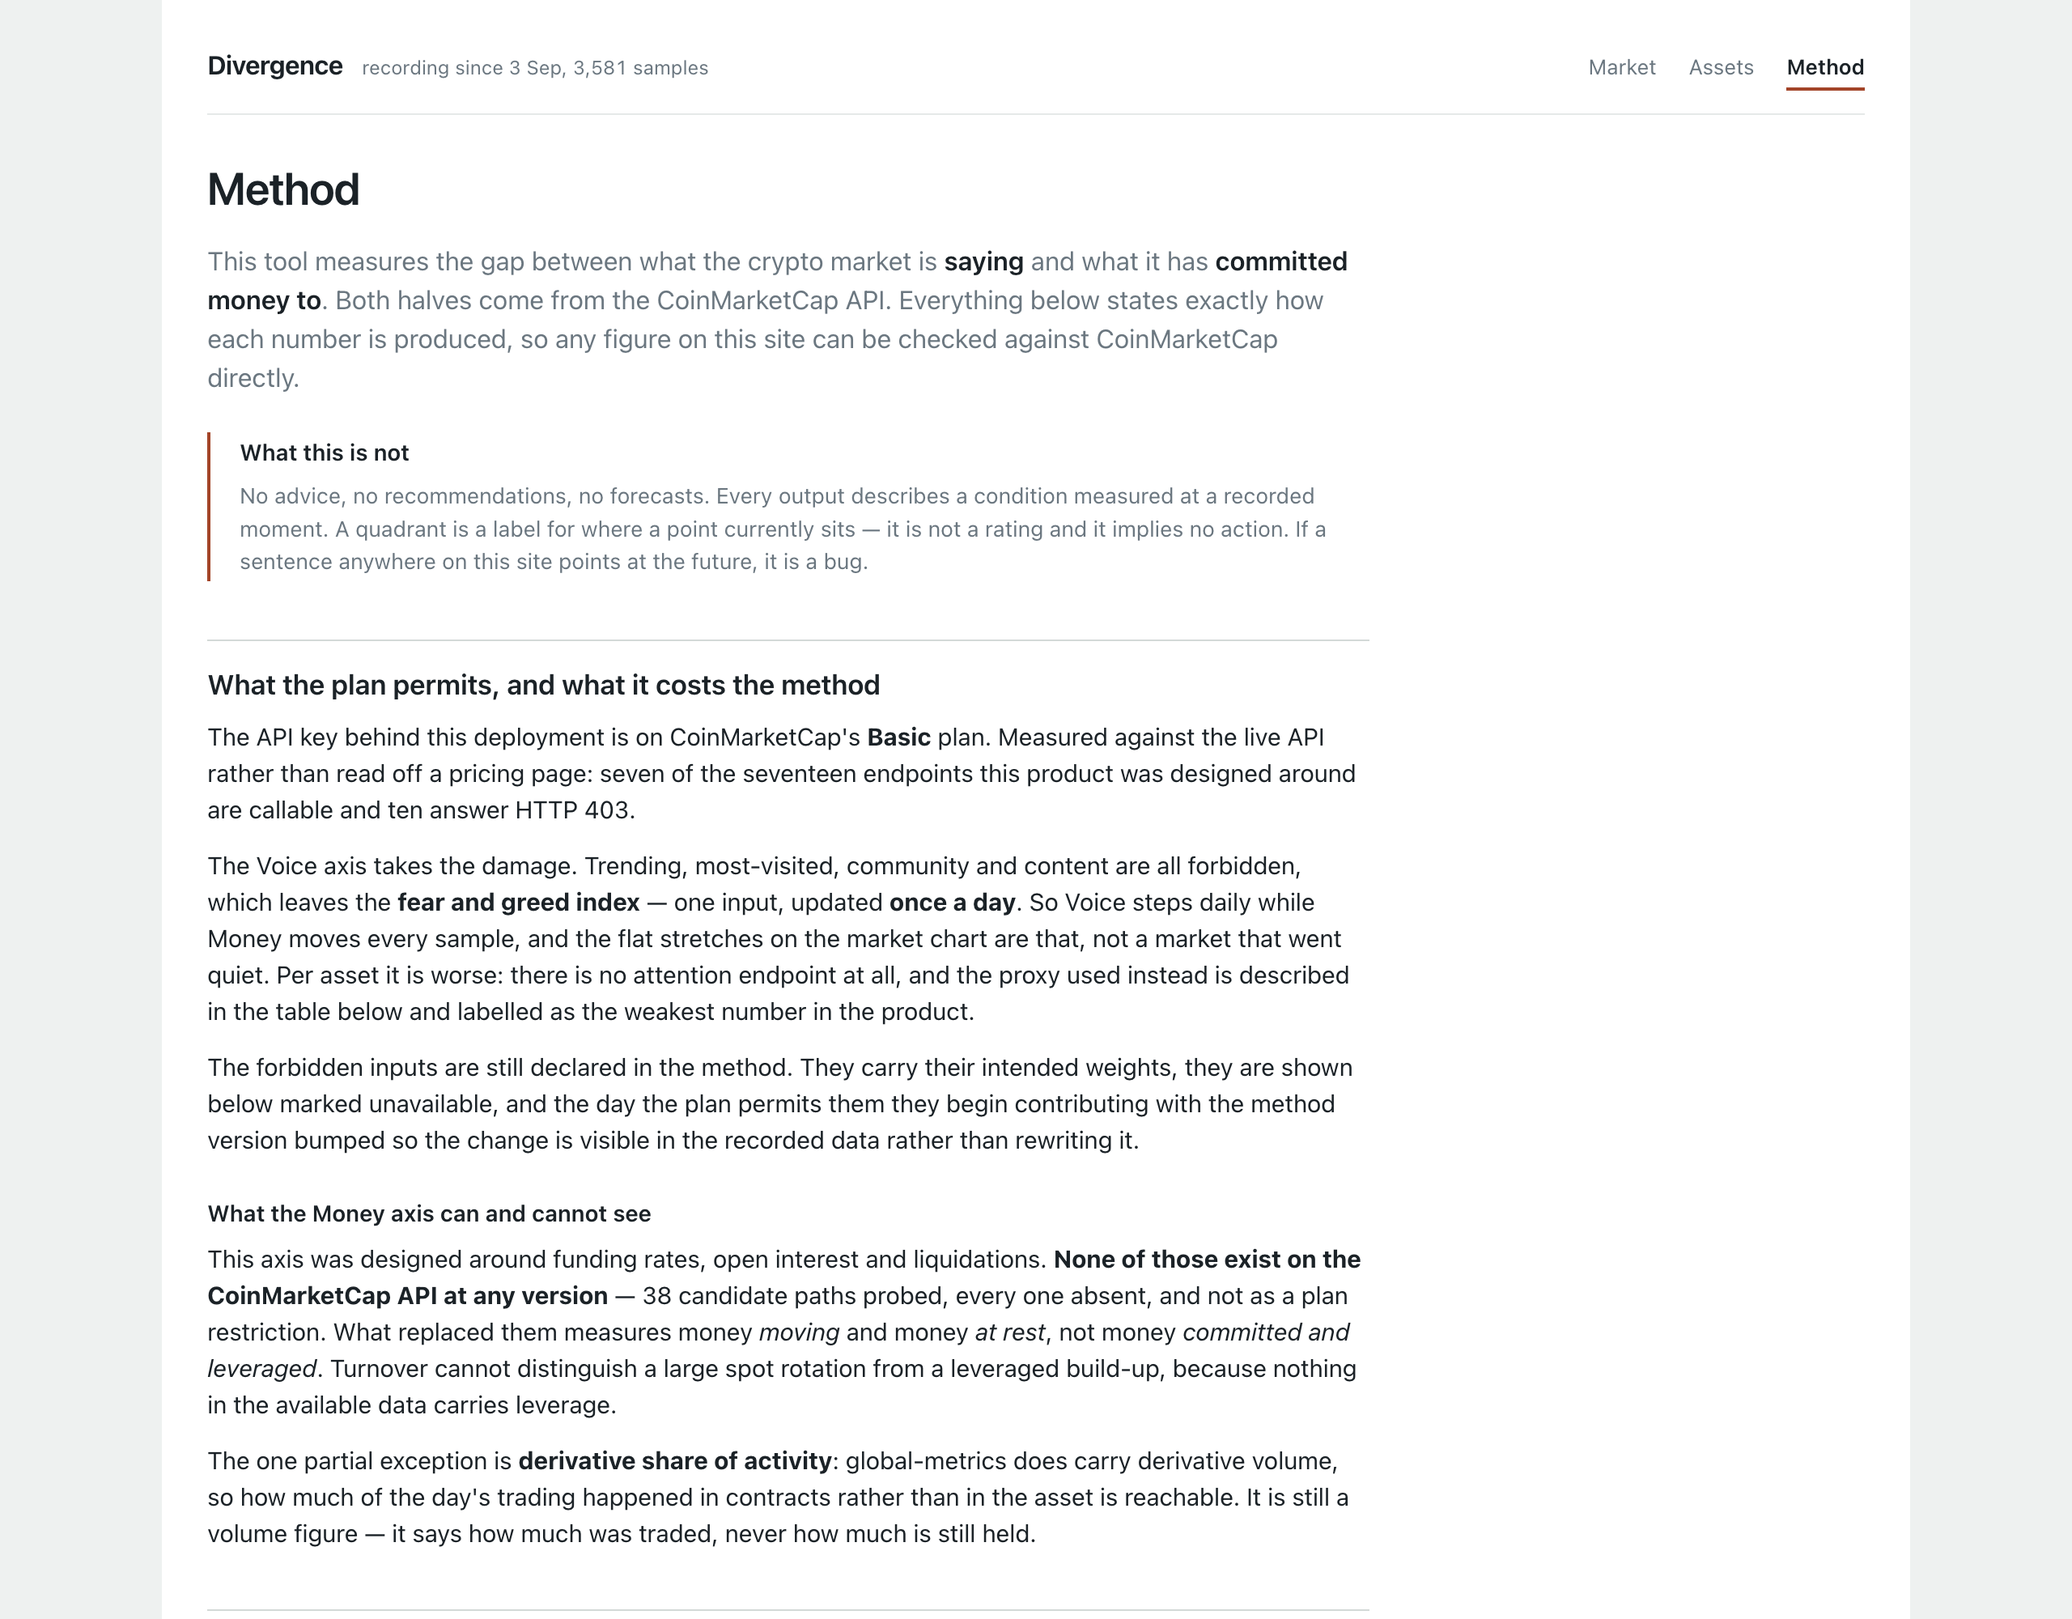
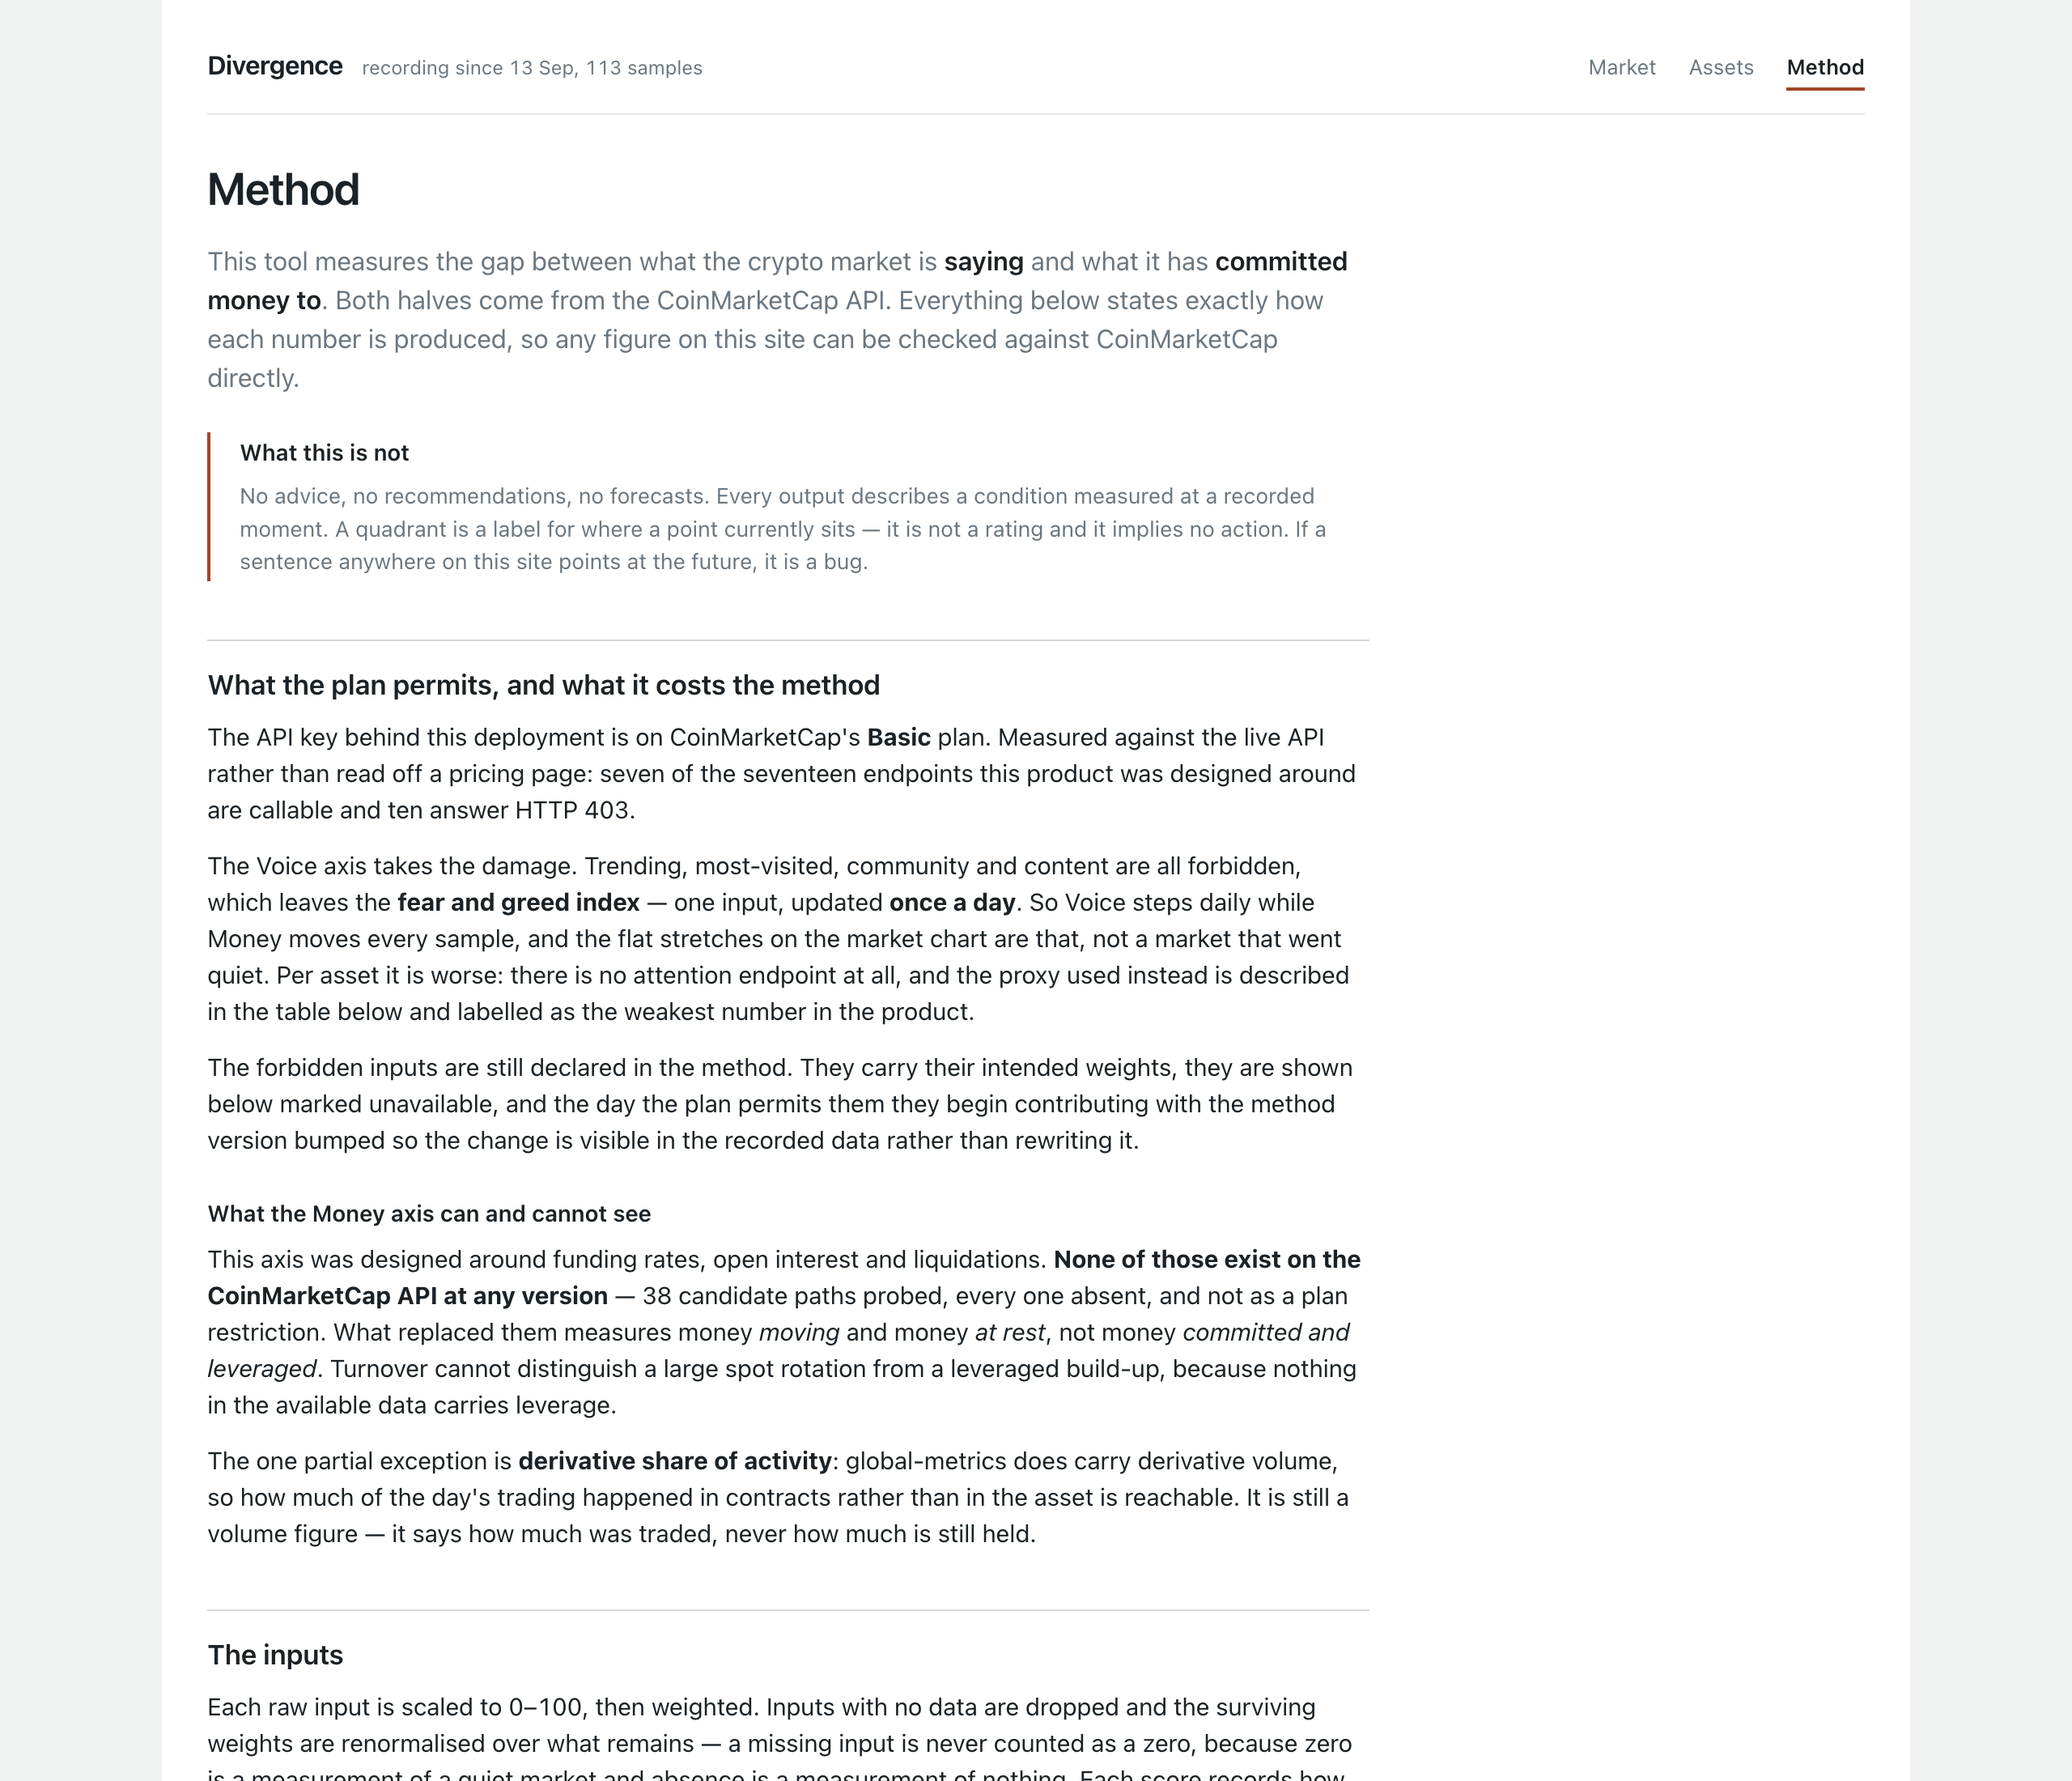
Take the screener and method screenshots from the live deployment
Both are fully populated from production and neither depends on how much history
has accumulated, so they are strictly better taken from the real thing: the
screener shot now shows 86 real assets across both quadrants — SKY, TRUMP, KAS,
VET, AVAX, FET — with the stablecoin exclusion visible and explained on the page.

The market and single-asset charts stay seeded, and the caption now says exactly
why rather than apologising vaguely. The deployment started recording on 13
September and the fear and greed index updates once a day, so every recorded
sample so far sits at Voice 66: the live trail is a straight horizontal line.
Publishing that as the hero image would say less about the product than the
seeded one does, and the trail is the thing the product is for.

Those two get replaced once the Voice axis has stepped a few times and the trail
has real shape — days, not weeks.

diff --git a/README.md b/README.md
@@ -41,9 +41,11 @@ anyone, at any later date.
 Every input in the right-hand column carries the endpoint it came from and the minute it was
 sampled, so any number here can be checked against CoinMarketCap directly.
 
-*Captured from a local run against seeded history, so that the trail and the week-over-week figures
-have something to show. The live deployment records the same way and its own trail is building now;
-every number in the panel is produced by the same code path either way.*
+*This one is from a local run against seeded history, because the live deployment started recording
+on 13 September and its Voice axis has not stepped yet — the fear and greed index updates once a
+day, so the live trail is currently a straight horizontal line. A picture of a straight line would
+say less about the product than this does. The two shots below are live, and this one gets replaced
+the moment the real trail has shape.*
 
 ### The screener
 
@@ -52,17 +54,19 @@ every number in the panel is produced by the same code path either way.*
 The same two measurements per asset, sorted by the gap between them. These axes exist nowhere on
 CoinMarketCap's own site.
 
-Stablecoins are excluded by default and the page says so. High turnover with no narrative is what a
-stablecoin *is*, so ranking them by that gap measures a definition rather than a condition — they
-were four of the top nine rows until [D21](docs/decisions.md). One click shows them again.
+*Live, from the deployment.* Stablecoins are excluded by default and the page says so: high turnover
+with no narrative is what a stablecoin *is*, so ranking them by that gap measures a definition rather
+than a condition — they were four of the top nine rows until [D21](docs/decisions.md). One click
+shows them again.
 
 ### The method page
 
 ![The method page](docs/screenshots/method.png)
 
-Rendered directly from `app/scoring/inputs.php` — the same declaration the scorer runs from — so the
-page cannot describe a method the code does not implement. It states what the API plan forbids
-*before* it states the method.
+*Live, from the deployment.* Rendered directly from `app/scoring/inputs.php` — the same declaration
+the scorer runs from — so the page cannot describe a method the code does not implement. It states
+what the API plan forbids *before* it states the method, and its recording-health figures come
+straight from `fetch_log`.
 
 ---
 
